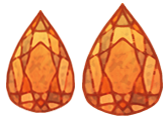
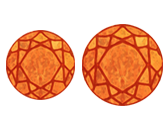
bubble and gem finish

diff --git a/gameoriginal/Scripts/Game.js b/gameoriginal/Scripts/Game.js
@@ -9,9 +9,9 @@ theGame.Game = function(game)
 	
 	////////Gems//////////
 	this.red = null; 
-	this.blue = null;
 	this.green = null;
-	this.purpleGem = null;
+	this.greenGem= null;
+	this.orangeGem = null;
 	
 	////////Images//////////
 	this.clockImage = null;
@@ -33,7 +33,8 @@ theGame.Game = function(game)
 	this.counter = 10;
 	this.timer = 50;
 	this.angle = 360;
-	this.customerArray = [0, 1, 2];
+	this.customerArray = [2, 1, 3, 0]; // 0 - Western / 1 - Indian/ 2 - Chinese/ 3 - Middle Earstern
+//	this.customerArray = [3,0];
 	this.totalCustomers = 0;
 	
 	///////////////////////
@@ -58,22 +59,21 @@ theGame.Game.prototype =
         this.gameBackground.anchor.set(0.5,0.5);
 			
 		//gemTable
-		this.tableImage = this.add.sprite(this.world.width*0.5, this.world.height*0.83, 'gemTable1');
+		this.tableImage = this.add.sprite(this.world.width*0.5, this.world.height*0.88, 'gemTable1');
         this.tableImage.anchor.set(0.5,0.5);
 		
 		// gem 
-       	this.red = this.add.button(this.world.width*0.29, this.world.height*0.79, 'red', this.redclick, this, 1, 0, 2);
+       	this.red = this.add.button(this.world.width*0.365, this.world.height*0.85, 'red', this.redclick, this, 1, 0, 2);
 		this.red.anchor.setTo(0.5,0.5);
 		
-		this.green = this.add.button(this.world.width*0.715, this.world.height*0.79, 'green', this.greenclick, this, 1, 0, 2);
+		this.orangeGem = this.add.button(this.world.width*0.505, this.world.height*0.85, 'orange', this.orangeclick, this, 1, 0, 2);
+		this.orangeGem.anchor.setTo(0.5,0.5);
+		
+		this.green = this.add.button(this.world.width*0.645, this.world.height*0.85, 'green', this.greenclick, this, 1, 0, 2);
 		this.green.anchor.setTo(0.5,0.5);
 		
-		this.blue = this.add.button(this.world.width*0.42, this.world.height*0.89, 'blue', this.blueclick, this, 1, 0, 2);
-		this.blue.anchor.setTo(0.5,0.5);
-		
-		this.purpleGem = this.add.button(this.world.width*0.58, this.world.height*0.89, 'purple', this.purpleclick, this, 1, 0, 2);
-		this.purpleGem.anchor.setTo(0.5,0.5);
-		
+//		this.greenGem = this.add.button(this.world.width*0.645, this.world.height*0.85, 'green', this.MEclick, this, 1, 0, 2);
+//		this.greenGem.anchor.setTo(0.5,0.5);
 		
 		//clock
 		this.clockSkin = this.add.sprite(this.world.width*0.175, this.world.height*0.5, 'clockskin');
@@ -153,6 +153,10 @@ theGame.Game.prototype =
 		{
 			this.moneyImage.frame = 3;
 		}
+		else if(this.money >= 40 && this.money <= 49)
+		{
+			this.moneyImage.frame = 4;
+		}
 		
 		// print out game over image when timer over
 		if (this.timer <= 0 )
@@ -162,7 +166,7 @@ theGame.Game.prototype =
 		}
 
 		//come out next button go to level 2
-		if (this.CusNum >= 3 && this._customer.TestHuman.done == true) // next level
+		if (this.CusNum >= 5 && this._customer.TestHuman.done == true) // next level
 		{
 			this.buttonManager.createScoreButton(this.world.width*0.5, this.world.height*0.5);	
 			this.time.events.stop();
@@ -188,7 +192,7 @@ theGame.Game.prototype =
 	
 	spawnCustomer:function()
     {
-    	if(this.totalCustomers<3)
+    	if(this.totalCustomers<4)
     	{
     		this._customer = new CustomerManager(this);
 			this._customer.create(this.customerArray[this.totalCustomers], 0, 325);
@@ -218,13 +222,35 @@ theGame.Game.prototype =
 		this.timeRun = false;
 	},
 	
-
-	blueclick: function() //Western customer / blue gem is correct
+	redclick: function() //Chinese customer / red gem is correct
 	{
-		if (this.blue.events.onInputDown)
+		if (this.red.events.onInputDown) 
+		{
+			if(this.customerArray[0] == 2 && this._customer.randomBubble == 2) // CUSTOMER ARRAY NUMBER AND SPRITE NUMBER AND BUBBLE NUMBER
+			{
+				this._customer.TestHuman.animations.play('happy',6, true);
+				this.money += 10;
+				this.timeRun = true; 
+				this.ShowGems = true;
+				this._customer.destroyBubble();
+			}else
+			{
+				this.timeRun = true;
+				this._customer.Angry = true;
+				this.ShowGems = false;
+				this._customer.destroyBubble();
+				this._customer.TestHuman.animations.play('angry',10, true);
+			}
+			this.CusNum += 1;
+		}
+	},
+
+	orangeclick: function() //Indian customer / orange gem is correct
+	{
+		if (this.orangeGem.events.onInputDown)
 		{
 			//this.customerArray[0] == 0 && bubble ||(this.customerArray[0] == 0 && bubble2)
-			if(this.customerArray[0] == 0 && this._customer.randomBubble == 0 )
+			if(this.customerArray[1] == 1 && this._customer.randomBubble == 1 )
 			{
 				this._customer.TestHuman.animations.play('happy',10, true);
 				this.money += 10;
@@ -244,34 +270,11 @@ theGame.Game.prototype =
 		}
 	},
 
-	redclick: function() //Indian customer / red gem is correct
-	{
-		if (this.red.events.onInputDown) 
-		{
-			if(this.customerArray[1] == 1 && this._customer.randomBubble == 1)
-			{
-				this._customer.TestHuman.animations.play('happy',6, true);
-				this.money += 10;
-				this.timeRun = true;
-				this.ShowGems = true;
-				this._customer.destroyBubble();
-			}else
-			{
-				this.timeRun = true;
-				this._customer.Angry = true;
-				this.ShowGems = false;
-				this._customer.destroyBubble();
-				this._customer.TestHuman.animations.play('angry',10, true);
-			}
-			this.CusNum += 1;
-		}
-	},
-	
-	greenclick: function() //chinese customer / green gem is correct
+	greenclick: function() //Western customer / green gem is correct
 	{
 		if (this.green.events.onInputDown)
 		{
-			if(this.customerArray[2] == 2 && this._customer.randomBubble == 2)
+			if(this.customerArray[3] == 0 || this.customerArray[2] && this._customer.randomBubble == 0) //western customer array is 3
 			{
 				this._customer.TestHuman.animations.play('happy',10, true);
 				this.money += 10;
@@ -288,19 +291,6 @@ theGame.Game.prototype =
 				this._customer.destroyBubble();
 				this._customer.TestHuman.animations.play('angry',10, true);
 			}
-			this.CusNum += 1;
-		}	
-	},
-			
-	purpleclick: function()
-	{
-		if (this.purpleGem.events.onInputDown)
-		{
-			this.timeRun = true;
-			this._customer.Angry = true;
-			this.ShowGems = false;
-			this._customer.destroyBubble();
-			this._customer.TestHuman.animations.play('angry',10, true);
 			this.CusNum += 1;
 		}	
 	},

diff --git a/gameoriginal/Scripts/Preloader.js b/gameoriginal/Scripts/Preloader.js
@@ -51,9 +51,9 @@ theGame.Preloader.prototype =
 //		this.load.image('BBG', 'Assets/images/BG/ButtonBG.png');
 
 		//table
-		this.load.image('gemTable1', 'Assets/images/table1.png');
-		this.load.image('gemTable2', 'Assets/images/table2.png');
-		this.load.image('gemTable3', 'Assets/images/table3.png');
+		this.load.image('gemTable1', 'Assets/images/Table/Table_3Gems.png');
+		this.load.image('gemTable2', 'Assets/images/Table/Table_4Gems.png');
+		this.load.image('gemTable3', 'Assets/images/Table/Table_6Gems.png');
 		
 		//blinking 
 		this.load.spritesheet('blinking', 'Assets/images/BG/blinking.png', 975, 750);
@@ -68,7 +68,7 @@ theGame.Preloader.prototype =
 		this.load.spritesheet('green', 'Assets/images/Gem/green.png', 82, 120);
 		this.load.spritesheet('blue', 'Assets/images/Gem/blue.png', 82, 120);
 		this.load.spritesheet('yellow', 'Assets/images/Gem/yellowGem.png', 82, 120);
-		this.load.spritesheet('purple', 'Assets/images/Gem/purpleGem.png', 82, 120);
+		this.load.spritesheet('white', 'Assets/images/Gem/whiteGem.png', 82, 120);
 		this.load.spritesheet('orange', 'Assets/images/Gem/orangeGem.png', 82, 120);
 		
 		//score gem image(star)
@@ -80,24 +80,25 @@ theGame.Preloader.prototype =
 		this.load.image('purpleScore', 'Assets/images/ScoreGem/scorePurpleGem.png');
 
 		//customer
-		this.load.spritesheet('dude', 'Assets/images/Customer/dude.png', 32, 48);
-		this.load.spritesheet('dude2', 'Assets/images/Customer/dude2.png', 105, 162);
-		this.load.spritesheet('dude3', 'Assets/images/Customer/dude3.png', 32, 48);
-		this.load.spritesheet('dude4', 'Assets/images/Customer/dude4.png', 32, 48);
-		this.load.spritesheet('dude5', 'Assets/images/Customer/dude5.png', 32, 48);
-		this.load.spritesheet('orangedude', 'Assets/images/Customer/orangedude.png', 32, 48);
-		this.load.spritesheet('purpledude', 'Assets/images/Customer/purpledude.png', 32, 48);
+//		this.load.spritesheet('dude', 'Assets/images/Customer/dude.png', 32, 48);
+//		this.load.spritesheet('dude2', 'Assets/images/Customer/dude2.png', 105, 162);
+//		this.load.spritesheet('dude3', 'Assets/images/Customer/dude3.png', 32, 48);
+//		this.load.spritesheet('dude4', 'Assets/images/Customer/dude4.png', 32, 48);
+//		this.load.spritesheet('dude5', 'Assets/images/Customer/dude5.png', 32, 48);
+//		this.load.spritesheet('orangedude', 'Assets/images/Customer/orangedude.png', 32, 48);
+//		this.load.spritesheet('purpledude', 'Assets/images/Customer/purpledude.png', 32, 48);
 		
 		//////////////////////LEVEL 1 CUSTOMER SPRITE////////////////////////////////
 		this.load.spritesheet('ChineseSprite', 'Assets/images/Level1_Sprite/ChineseSprite.png', 153, 200);
 		this.load.spritesheet('IndianSprite', 'Assets/images/Level1_Sprite/IndianSprite.png', 133, 186);
 		this.load.spritesheet('WesternSprite', 'Assets/images/Level1_Sprite/WesternSprite.png', 133, 186);
+		this.load.spritesheet('M_EarthSprite', 'Assets/images/Level1_Sprite/M_EarthSprite.png', 133, 186);
 		
 		
 		//////////////////////LEVEL 2 CUSTOMER SPRITE////////////////////////////////
-		this.load.spritesheet('ChineseSprite2', 'Assets/images/Level2_Sprite/ChineseS2.png', 153, 200);
-		this.load.spritesheet('IndianSprite2', 'Assets/images/Level2_Sprite/IndianS2.png', 133, 186);
-		this.load.spritesheet('WesternSprite2', 'Assets/images/Level2_Sprite/WesternS2.png', 133, 186);
+//		this.load.spritesheet('ChineseSprite2', 'Assets/images/Level2_Sprite/ChineseS2.png', 153, 200);
+//		this.load.spritesheet('IndianSprite2', 'Assets/images/Level2_Sprite/IndianS2.png', 133, 186);
+//		this.load.spritesheet('WesternSprite2', 'Assets/images/Level2_Sprite/WesternS2.png', 133, 186);
 		this.load.spritesheet('CoupleSprite2', 'Assets/images/Level2_Sprite/CoupleS2.png', 133, 186);
 		//angry face
 		this.load.image('angry', 'Assets/images/angryBubble.png');
@@ -108,12 +109,13 @@ theGame.Preloader.prototype =
 		
 		//request bubble
 		this.load.image('request', 'Assets/images/bubble.png');
-		this.load.image('IndianBubble', 'Assets/images/IndianBubble.png');
-		this.load.image('WesternBubble', 'Assets/images/WesternBubble.png');
-		this.load.image('ChineseBubble', 'Assets/images/ChineseBubble.png');
+		this.load.image('IndianBubble', 'Assets/images/SpeechBubble/IndianBubble.png');
+		this.load.image('WesternBubble', 'Assets/images/SpeechBubble/WesternBubble.png');
+		this.load.image('ChineseBubble', 'Assets/images/SpeechBubble/ChineseBubble.png');
+		this.load.image('MiddleEasternBubble', 'Assets/images/SpeechBubble/MiddleEasternBubble.png');
 		
 		//money
-		this.load.spritesheet('moneyImage', 'Assets/images/coin.png', 116, 106);
+		this.load.spritesheet('moneyImage', 'Assets/images/coin.png', 118, 122);
 		
 		//clock
 		this.load.image('clockskin', 'Assets/images/clockskin.png');

diff --git a/gameoriginal/Scripts/CustomerManager.js b/gameoriginal/Scripts/CustomerManager.js
@@ -7,7 +7,6 @@ function CustomerManager(game)
 	this.bubbleCreate = false;
 	this.spawnCus = false;
 	this._Request = false;
-	//this.RandomNum = null;
 	this.randomBubble = null;
 	this.customerNum = null;
 	this.Angry = false;
@@ -20,7 +19,7 @@ CustomerManager.prototype.create = function(RandomNum,posX, posY)
 		{
 			case 0:
 			{
-				// Western Customer / RED
+				// Western Customer / GREEN
 				this.TestHuman = this.game.add.sprite(posX, posY, 'WesternSprite');
 				this.customerNum = 0;
 			}break;
@@ -32,17 +31,16 @@ CustomerManager.prototype.create = function(RandomNum,posX, posY)
 			}break;
 			case 2:
 			{
-				//Chinese Customer / YELLOW
+				//Chinese Customer / RED
 				this.TestHuman = this.game.add.sprite(posX,posY, 'ChineseSprite');
 				this.customerNum = 2;
 			}break;
 			case 3:
 			{
-				// Couple Customer / GREEN
-				this.TestHuman = this.game.add.sprite(posX, posY, 'CoupleSprite2');
-				
-			}break;
-			
+				// Medium earth Customer / GREEN
+				this.TestHuman = this.game.add.sprite(posX,posY, 'M_EarthSprite');
+				this.customerNum = 3;
+			}break;	
 		}
 		console.log(this.customerNum);
 		this.TestHuman.anchor.set(0.5,0.5);
@@ -84,6 +82,11 @@ CustomerManager.prototype.LoadBubble = function(RandomNum,posX, posY)
 				//China Green
 				this.bubble = this.game.add.sprite(posX,posY, 'ChineseBubble');
 			}break;
+			case 3:
+			{
+				//Middle eastern Green
+				this.bubble = this.game.add.sprite(posX,posY, 'MiddleEasternBubble');
+			}break;
 		}
 		this.bubble.anchor.set(0.5,0.5);
 },
@@ -101,7 +104,7 @@ CustomerManager.prototype.moveCustomer = function()
 {
 	if(this.TestHuman.done)
 	{
-		this.TestHuman.x += 3;
+		this.TestHuman.x += 5; //this.TestHuman.x += 3;
 		if (this.Angry == false)
 		{
 			this.TestHuman.animations.play('happyRight',10, true);
@@ -131,7 +134,7 @@ CustomerManager.prototype.moveCustomer = function()
 	{
 		if(this.TestHuman.x < this.game.world.width*0.5)
 		{
-			this.TestHuman.x += 3;
+			this.TestHuman.x += 5;
 			this.TestHuman.animations.play('right',10, true);
 		}else
 		{
@@ -159,10 +162,15 @@ CustomerManager.prototype.CreateBubble = function()
 	{
 		this.randomBubble = 2;
 	}
+	else if (this.customerNum == 3)
+	{
+		this.randomBubble = 3;
+	}
 	else
 	{
 		this.randomBubble = 0;
 	}
+
 
 	this.LoadBubble(this.randomBubble,500,120);
 },

diff --git a/gameoriginal/Scripts/ScorePage.js b/gameoriginal/Scripts/ScorePage.js
@@ -24,9 +24,12 @@ theGame.ScorePage.prototype =
 		this.blueScoreImage = this.add.sprite(this.world.width*0.627, this.world.height*0.49, 'blueScore');
         this.blueScoreImage.anchor.set(0.5,0.5);
 		
-		
-		this.tween = this.add.tween(this.redScoreImage.scale).to({ x: 1.5, y: 1.5 }, 1000, Phaser.Easing.Bounce.Out, true);	
-		this.tween.onComplete.add(this.greenTween, this);
+		if(this.ShowGems == true)
+		{
+			console.log(this.ShowGems);
+			this.tween = this.add.tween(this.redScoreImage.scale).to({ x: 1.5, y: 1.5 }, 1000, Phaser.Easing.Bounce.Out, true);	
+			this.tween.onComplete.add(this.greenTween, this);
+		}
 		
         //Button
         this.buttonManager = new ButtonManager(this);
@@ -45,7 +48,7 @@ theGame.ScorePage.prototype =
 	greenTween: function()
 	{
 		this.tween = this.add.tween(this.greenScoreImage.scale).to({ x: 1.5, y: 1.5 }, 1000, Phaser.Easing.Bounce.Out, true);
-//		this.tween.onComplete.add(this.blueTween, this);
+		this.tween.onComplete.add(this.blueTween, this);
 	},
 	blueTween: function()
 	{

diff --git a/gameoriginal/Scripts/MainMenu.js b/gameoriginal/Scripts/MainMenu.js
@@ -16,8 +16,8 @@ theGame.MainMenu.prototype =
         
         //Button
         this.buttonManager = new ButtonManager(this);
-        this.buttonManager.startGameButton(this.world.width*0.25, this.world.height*0.8);
-//		this.buttonManager.createLevel3Button(this.world.width*0.5, this.world.height*0.5);	
+//        this.buttonManager.startGameButton(this.world.width*0.25, this.world.height*0.8);
+		this.buttonManager.createSkipButton(this.world.width*0.5, this.world.height*0.5);	
         
         //Fade in and out
         theGame.FadeScreen = new FadeManager(this);
